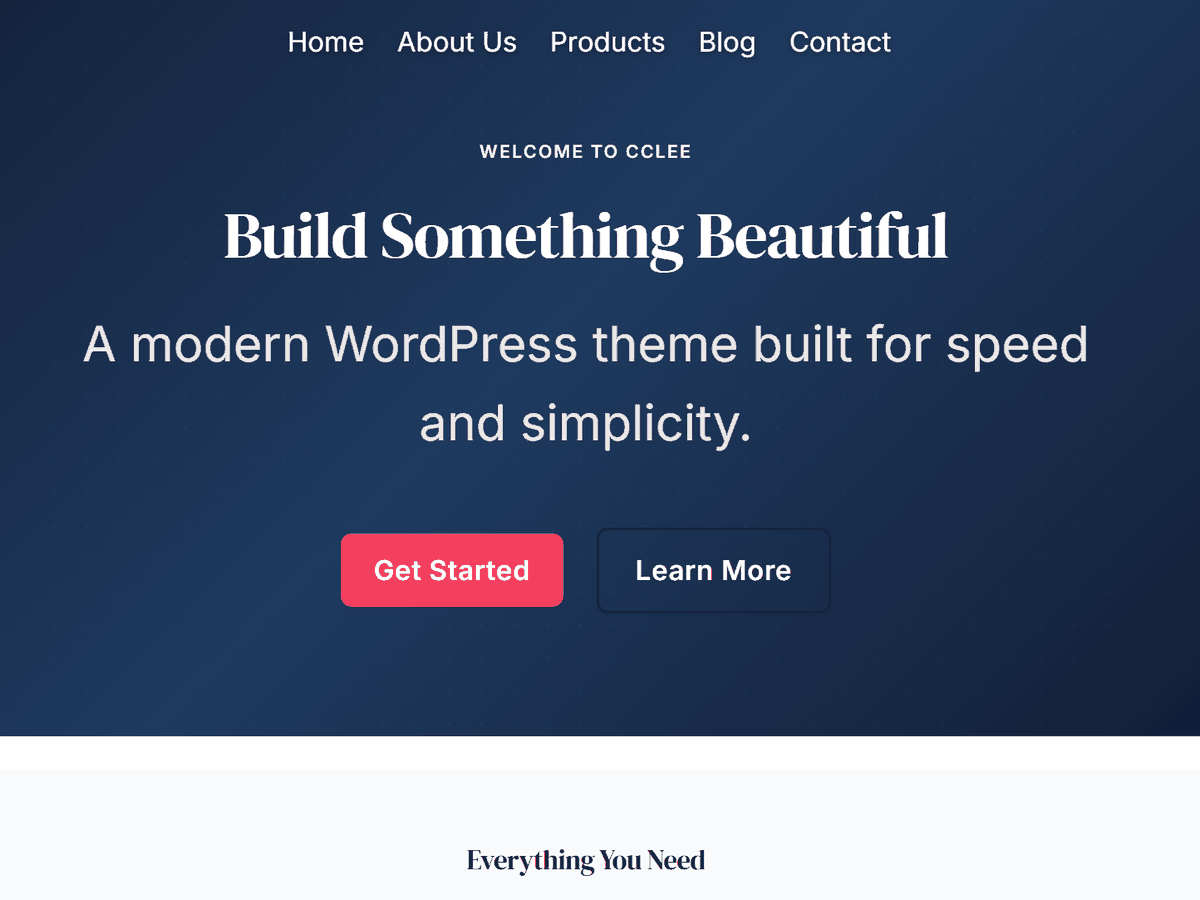
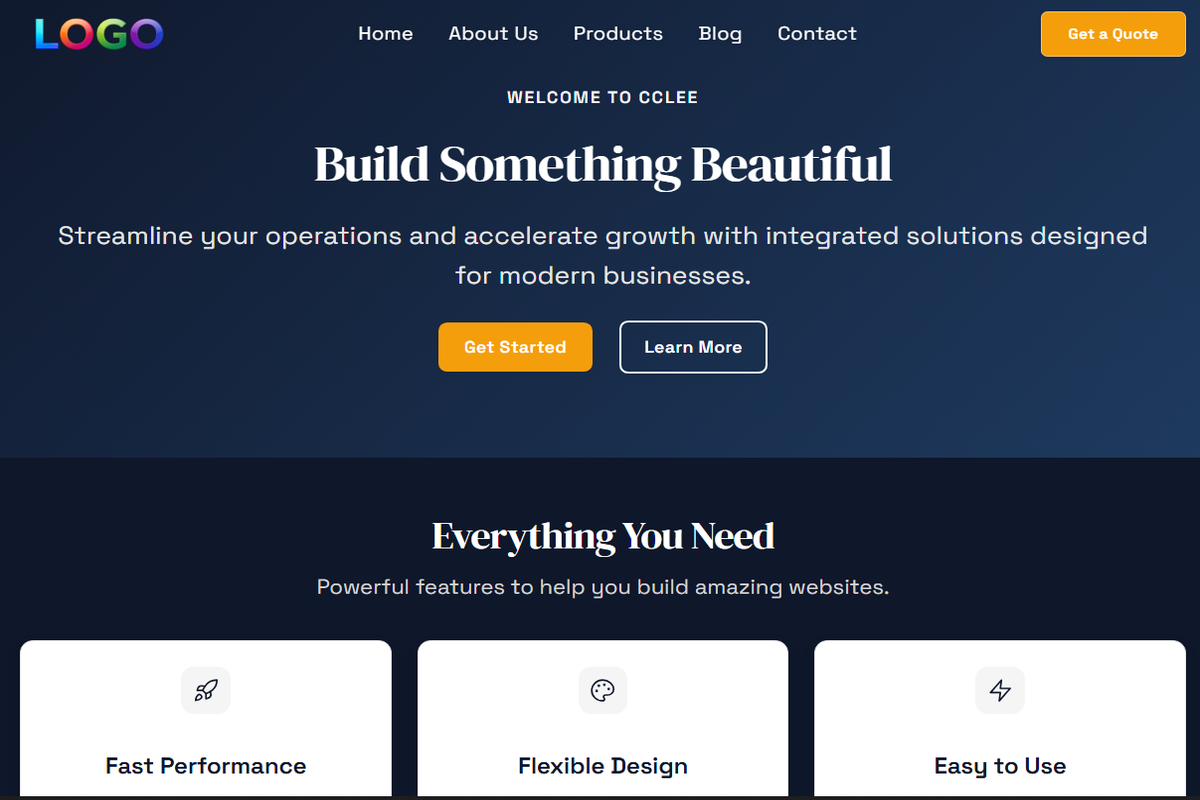
sync: from wordpress@917b5d5

diff --git a/style.css b/style.css
@@ -4,9 +4,9 @@ Theme URI: https://aidevhub.ai/cclee-theme
 Author: CCLEE
 Author URI: https://aidevhub.ai/about
 Description: A lightweight FSE theme for developers. Clean architecture, customizable design tokens, SEO-friendly.
-Version: 1.4.2
+Version: 1.5
 Requires at least: 6.4
-Tested up to: 6.9.4
+Tested up to: 7.0
 Requires PHP: 8.0
 WC requires at least: 9.0.0
 WC tested up to: 10.7.0

diff --git a/patterns/hero-centered.php b/patterns/hero-centered.php
@@ -10,8 +10,8 @@
 
 ?>
 <!-- wp:cover {"gradient":"hero","dimRatio":100,"backgroundColor":"contrast","minHeight":480,"minHeightUnit":"px","align":"full","style":{"spacing":{"padding":{"top":"var(--wp--preset--spacing--80)","bottom":"var(--wp--preset--spacing--80)","left":"var(--wp--preset--spacing--50)","right":"var(--wp--preset--spacing--50)"}}},"textColor":"base","layout":{"type":"constrained"}} -->
-<div class="wp-block-cover alignfull has-base-color has-text-color has-contrast-background-color" style="padding-top:var(--wp--preset--spacing--80);padding-bottom:var(--wp--preset--spacing--80);padding-left:var(--wp--preset--spacing--50);padding-right:var(--wp--preset--spacing--50);min-height:480px">
-	<span aria-hidden="true" class="wp-block-cover__background has-contrast-background-color has-background-dim"></span>
+<div class="wp-block-cover alignfull has-base-color has-contrast-background-color has-text-color has-background" style="padding-top:var(--wp--preset--spacing--80);padding-right:var(--wp--preset--spacing--50);padding-bottom:var(--wp--preset--spacing--80);padding-left:var(--wp--preset--spacing--50);min-height:480px">
+	<span aria-hidden="true" class="wp-block-cover__background has-contrast-background-color has-background-dim-100 has-background-dim has-background-gradient has-hero-gradient-background"></span>
 	<div class="wp-block-cover__inner-container">
 
 		<!-- wp:paragraph {"textAlign":"center","textColor":"neutral-100","fontSize":"medium","style":{"typography":{"fontWeight":"600","letterSpacing":"0.1em","textTransform":"uppercase"}}} -->
@@ -23,7 +23,7 @@
 		<!-- /wp:heading -->
 
 		<!-- wp:paragraph {"align":"center","fontSize":"xx-large","textColor":"neutral-200"} -->
-		<p class="has-text-align-center has-neutral-200-color has-text-color has-xx-large-font-size">A modern WordPress theme built for speed and simplicity.</p>
+		<p class="has-text-align-center has-neutral-200-color has-text-color has-xx-large-font-size">Streamline your operations and accelerate growth with integrated solutions designed for modern businesses.</p>
 		<!-- /wp:paragraph -->
 
 		<!-- wp:buttons {"layout":{"type":"flex","justifyContent":"center"},"style":{"spacing":{"margin":{"top":"var(--wp--preset--spacing--50)"}}}} -->

diff --git a/patterns/hero-about.php b/patterns/hero-about.php
@@ -10,8 +10,8 @@
 
 ?>
 <!-- wp:cover {"gradient":"hero","dimRatio":100,"backgroundColor":"contrast","minHeight":360,"minHeightUnit":"px","align":"full","style":{"spacing":{"padding":{"top":"var(--wp--preset--spacing--80)","bottom":"var(--wp--preset--spacing--80)","left":"var(--wp--preset--spacing--50)","right":"var(--wp--preset--spacing--50)"}}},"textColor":"base","layout":{"type":"constrained"}} -->
-<div class="wp-block-cover alignfull has-base-color has-text-color has-contrast-background-color" style="padding-top:var(--wp--preset--spacing--80);padding-bottom:var(--wp--preset--spacing--80);padding-left:var(--wp--preset--spacing--50);padding-right:var(--wp--preset--spacing--50);min-height:360px">
-	<span aria-hidden="true" class="wp-block-cover__background has-contrast-background-color has-background-dim"></span>
+<div class="wp-block-cover alignfull has-base-color has-contrast-background-color has-text-color has-background" style="padding-top:var(--wp--preset--spacing--80);padding-right:var(--wp--preset--spacing--50);padding-bottom:var(--wp--preset--spacing--80);padding-left:var(--wp--preset--spacing--50);min-height:360px">
+	<span aria-hidden="true" class="wp-block-cover__background has-contrast-background-color has-background-dim-100 has-background-dim has-background-gradient has-hero-gradient-background"></span>
 	<div class="wp-block-cover__inner-container">
 
 		<!-- wp:paragraph {"textAlign":"center","textColor":"neutral-100","fontSize":"medium","style":{"typography":{"fontWeight":"600","letterSpacing":"0.1em","textTransform":"uppercase"}}} -->

diff --git a/patterns/hero-blog.php b/patterns/hero-blog.php
@@ -10,8 +10,8 @@
 
 ?>
 <!-- wp:cover {"gradient":"hero","dimRatio":100,"backgroundColor":"contrast","minHeight":360,"minHeightUnit":"px","align":"full","style":{"spacing":{"padding":{"top":"var(--wp--preset--spacing--80)","bottom":"var(--wp--preset--spacing--80)","left":"var(--wp--preset--spacing--50)","right":"var(--wp--preset--spacing--50)"}}},"textColor":"base","layout":{"type":"constrained"}} -->
-<div class="wp-block-cover alignfull has-base-color has-text-color has-contrast-background-color" style="padding-top:var(--wp--preset--spacing--80);padding-bottom:var(--wp--preset--spacing--80);padding-left:var(--wp--preset--spacing--50);padding-right:var(--wp--preset--spacing--50);min-height:360px">
-	<span aria-hidden="true" class="wp-block-cover__background has-contrast-background-color has-background-dim"></span>
+<div class="wp-block-cover alignfull has-base-color has-contrast-background-color has-text-color has-background" style="padding-top:var(--wp--preset--spacing--80);padding-right:var(--wp--preset--spacing--50);padding-bottom:var(--wp--preset--spacing--80);padding-left:var(--wp--preset--spacing--50);min-height:360px">
+	<span aria-hidden="true" class="wp-block-cover__background has-contrast-background-color has-background-dim-100 has-background-dim has-background-gradient has-hero-gradient-background"></span>
 	<div class="wp-block-cover__inner-container">
 
 		<!-- wp:paragraph {"textAlign":"center","textColor":"neutral-100","fontSize":"medium","style":{"typography":{"fontWeight":"600","letterSpacing":"0.1em","textTransform":"uppercase"}}} -->

diff --git a/patterns/hero-simple.php b/patterns/hero-simple.php
@@ -10,8 +10,8 @@
 
 ?>
 <!-- wp:cover {"gradient":"hero","dimRatio":100,"backgroundColor":"contrast","minHeight":480,"minHeightUnit":"px","align":"full","style":{"spacing":{"padding":{"top":"var(--wp--preset--spacing--80)","bottom":"var(--wp--preset--spacing--80)","left":"var(--wp--preset--spacing--50)","right":"var(--wp--preset--spacing--50)"}}},"textColor":"base","layout":{"type":"constrained"}} -->
-<div class="wp-block-cover alignfull has-base-color has-text-color has-contrast-background-color" style="padding-top:var(--wp--preset--spacing--80);padding-bottom:var(--wp--preset--spacing--80);padding-left:var(--wp--preset--spacing--50);padding-right:var(--wp--preset--spacing--50);min-height:480px">
-	<span aria-hidden="true" class="wp-block-cover__background has-contrast-background-color has-background-dim"></span>
+<div class="wp-block-cover alignfull has-base-color has-contrast-background-color has-text-color has-background" style="padding-top:var(--wp--preset--spacing--80);padding-right:var(--wp--preset--spacing--50);padding-bottom:var(--wp--preset--spacing--80);padding-left:var(--wp--preset--spacing--50);min-height:480px">
+	<span aria-hidden="true" class="wp-block-cover__background has-contrast-background-color has-background-dim-100 has-background-dim has-background-gradient has-hero-gradient-background"></span>
 	<div class="wp-block-cover__inner-container">
 
 		<!-- wp:group {"align":"wide","className":"has-grid-pattern","layout":{"type":"constrained","justifyContent":"left"}} -->

diff --git a/patterns/page-header.php b/patterns/page-header.php
@@ -10,8 +10,8 @@
 
 ?>
 <!-- wp:cover {"gradient":"hero","dimRatio":100,"backgroundColor":"contrast","minHeight":320,"minHeightUnit":"px","align":"full","style":{"spacing":{"padding":{"top":"var(--wp--preset--spacing--70)","bottom":"var(--wp--preset--spacing--70)"}}},"textColor":"base","layout":{"type":"constrained"}} -->
-<div class="wp-block-cover alignfull has-base-color has-text-color has-contrast-background-color" style="padding-top:var(--wp--preset--spacing--70);padding-bottom:var(--wp--preset--spacing--70);min-height:320px">
-	<span aria-hidden="true" class="wp-block-cover__background has-contrast-background-color has-background-dim"></span>
+<div class="wp-block-cover alignfull has-base-color has-contrast-background-color has-text-color has-background" style="padding-top:var(--wp--preset--spacing--70);padding-bottom:var(--wp--preset--spacing--70);min-height:320px">
+	<span aria-hidden="true" class="wp-block-cover__background has-contrast-background-color has-background-dim-100 has-background-dim has-background-gradient has-hero-gradient-background"></span>
 	<div class="wp-block-cover__inner-container">
 
 	<!-- wp:group {"align":"wide","layout":{"type":"constrained","contentSize":"800px","justifyContent":"center"}} -->

diff --git a/patterns/page-header-products.php b/patterns/page-header-products.php
@@ -10,8 +10,8 @@
 
 ?>
 <!-- wp:cover {"gradient":"hero","dimRatio":100,"backgroundColor":"contrast","minHeight":280,"minHeightUnit":"px","align":"full","style":{"spacing":{"padding":{"top":"var(--wp--preset--spacing--60)","bottom":"var(--wp--preset--spacing--60)"}}},"textColor":"base","layout":{"type":"constrained"}} -->
-<div class="wp-block-cover alignfull has-base-color has-text-color has-contrast-background-color" style="padding-top:var(--wp--preset--spacing--60);padding-bottom:var(--wp--preset--spacing--60);min-height:280px">
-	<span aria-hidden="true" class="wp-block-cover__background has-contrast-background-color has-background-dim"></span>
+<div class="wp-block-cover alignfull has-base-color has-contrast-background-color has-text-color has-background" style="padding-top:var(--wp--preset--spacing--60);padding-bottom:var(--wp--preset--spacing--60);min-height:280px">
+	<span aria-hidden="true" class="wp-block-cover__background has-contrast-background-color has-background-dim-100 has-background-dim has-background-gradient has-hero-gradient-background"></span>
 	<div class="wp-block-cover__inner-container">
 
 	<!-- wp:group {"align":"wide","layout":{"type":"constrained","justifyContent":"left"}} -->
